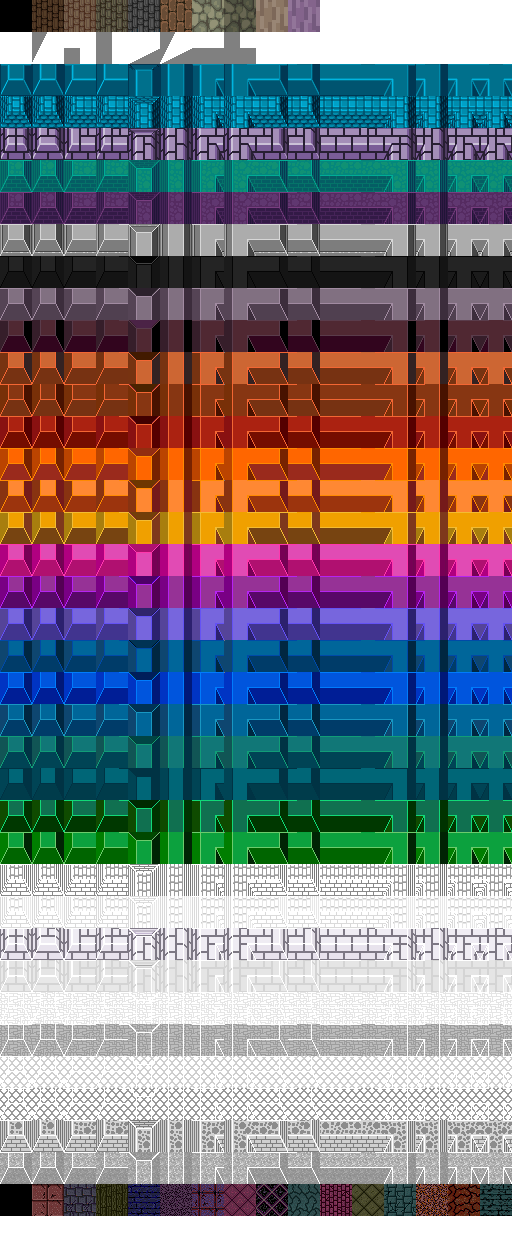
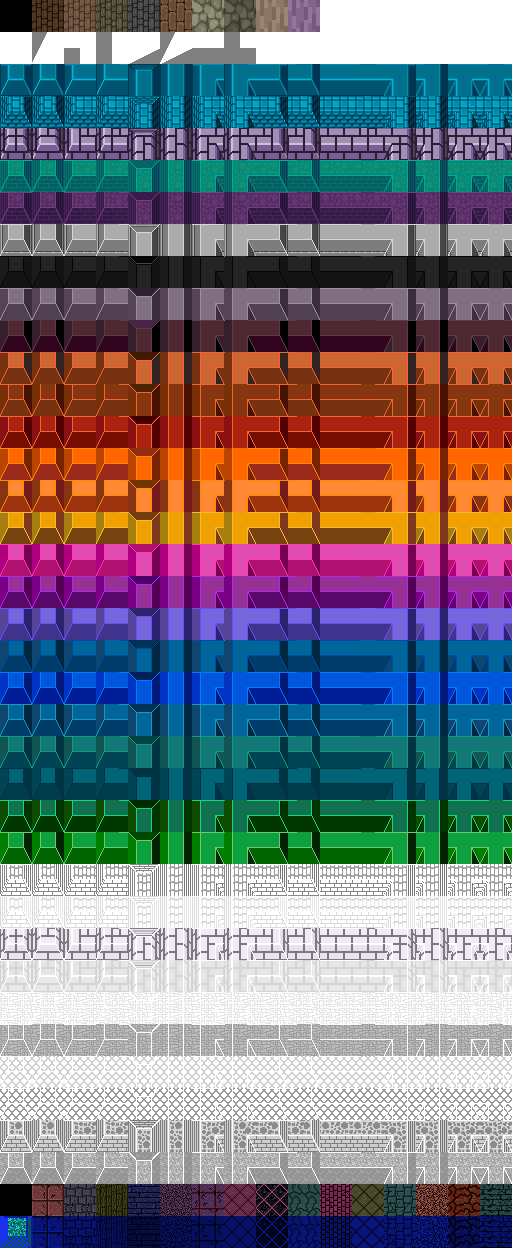
shotwall ops, ref for powers & limiteds

Changed region(s): [[0.0, 0.9688, 1.0, 1.0]]

diff --git a/js/gauntlet.js b/js/gauntlet.js
@@ -26,14 +26,16 @@ Gauntlet = function() {
 // also doors / walls are stalled open from player health rot - which has none of these pointers loaded
 // and could not get exit instance to pass exit to 4, 8 passed into the level load code
 // if there is a non global var method of passing these class inheritance pointers around - I know it not
-		reloaded, Mastercell, Masterthmp, Musicth, Mastermap, wallsprite,
+		reloaded, Mastercell, Masterthmp, Musicth, Mastermap, wallsprites, entsprites,
 		levelplus, refpixel, shotpot, slowmonster = 1, announcepause = false,
 //	custom g1 tiler on 0x00000F code of floor tiles - save last tile & last cell
 // FCUSTILE is after brikover last wall cover in backgrounds.png
-		ftilestr, fcellstr, FCUSTILE = 37,
+		ftilestr, fcellstr, FCUSTILE = 37, FDESTWALL = 38,
 
 		 MEXHIGH = 0xFFFFF0,
 		 MEXLOW = 0x00000F,
+// uses exlow to select next item in set
+		POWERADD = 3,LIMITEDADD = 7,
 
 // g1 custom walls diff from main wall mapped on EXLOW
 			G1WALL = [	8, 9, 10, 11, 12, 13, 14, 15, 16, 17, 18, 19, 20, 21, 22, 23, 24, 25, 26	],
@@ -105,7 +107,8 @@ Gauntlet = function() {
 // extra power potions
         XSPEED:       { sx: 9, sy: 11, frames:1, speed: 1*FPS, fpf: FPS/4, powers: true, potion: true, canbeshot: 2,   sound: 'collectpotion', help: "You got extra speed", nohlp: 10  },
         LIMINVIS:       { sx: 15, sy: 11, frames:1, speed: 1*FPS, fpf: FPS/4, powers: true,   sound: 'collectpotion', help: "You now have limited invisibility", nohlp: 17  },
-        SHOTWALL:       { sx: 0, sy: 12, frames:1, speed: 1*FPS, fpf: FPS/4, canbeshot: 2, health:14, wall:true,   sound: 'collectpotion' , help: "Some walls may be destroyed", nohlp: 7 },
+        SHOTWALL:       { sx: 0, sy: 38, frames:1, speed: 1*FPS, fpf: FPS/4, canbeshot: 2, health:14, wall:true,   sound: 'collectpotion' , help: "Some walls may be destroyed", nohlp: 7 },
+        FAKER:       { sx: 0, sy: 39, frames:1, speed: 1*FPS, fpf: FPS/4, canbeshot: 2, health:14, wall:true,   sound: 'collectpotion' , help: "Fooled you!", nohlp: 29 },
         XSHOTPWR:       { sx: 10, sy: 11, frames:1, speed: 1*FPS, fpf: FPS/4, powers: true, potion: true, canbeshot: 2,   sound: 'collectpotion', help: "You got extra shot power", nohlp: 11  },
         XSHOTSPD:       { sx: 11, sy: 11, frames:1, speed: 1*FPS, fpf: FPS/4, powers: true, potion: true, canbeshot: 2,   sound: 'collectpotion', help: "You got extra shot speed", nohlp: 12  },
         XARMOR:       { sx: 12, sy: 11, frames:1, speed: 1*FPS, fpf: FPS/4, powers: true, potion: true, canbeshot: 2,   sound: 'collectpotion', help: "You got extra armor", nohlp: 13  },
@@ -153,7 +156,7 @@ Gauntlet = function() {
       MONSTERS  = [ MONSTER.GHOST, MONSTER.DEMON, MONSTER.GRUNT, MONSTER.WIZARD, MONSTER.DEATH, MONSTER.LOBBER, MONSTER.GHOST1, MONSTER.DEMON1, MONSTER.GRUNT1, MONSTER.WIZARD1, MONSTER.LOBBER1, MONSTER.GHOST2, MONSTER.DEMON2, MONSTER.GRUNT2, MONSTER.WIZARD2, MONSTER.LOBBER2 ],
       TREASURES = [ TREASURE.HEALTH, TREASURE.POISON, TREASURE.FOOD1, TREASURE.FOOD2, TREASURE.FOOD3, TREASURE.KEY, TREASURE.POTION, TREASURE.GOLD, 
 											TREASURE.LOCKED, TREASURE.BAG, TREASURE.TELEPORT, TREASURE.TRAP, TREASURE.STUN, TREASURE.PUSH,
-											TREASURE.XSPEED, TREASURE.LIMINVIS, TREASURE.SHOTWALL, TREASURE.XSHOTPWR, TREASURE.XSHOTSPD, TREASURE.XARMOR, TREASURE.XFIGHT, TREASURE.XMAGIC,
+											TREASURE.XSPEED, TREASURE.LIMINVIS, TREASURE.SHOTWALL, TREASURE.FAKER, TREASURE.XSHOTPWR, TREASURE.XSHOTSPD, TREASURE.XARMOR, TREASURE.XFIGHT, TREASURE.XMAGIC,
 											TREASURE.LIMINVUL, TREASURE.LIMREPUL, TREASURE.LIMREFLC, TREASURE.LIMSUPER, TREASURE.LIMTELE, TREASURE.LIMANK,
 											TREASURE.POTIONORG, TREASURE.BADBOT ],
       CBOX = {
@@ -1271,9 +1274,10 @@ var ymir = false, xmir = false;
 				 var sb = MEXLOW & pixel;
 				 if (ad == TREASURE.POTION && (sb == 1)) ad = TREASURE.POTIONORG;
 				 if (ad == TREASURE.POISON && (sb == 2)) ad = TREASURE.BADPOT;
-				 if (ad == TREASURE.XSPEED && (sb > 0)) ad =  TREASURES[type(pixel) + sb + 2];
-				 if (ad == TREASURE.LIMINVIS && (sb > 0)) ad =  TREASURES[type(pixel) + sb + 6];
+				 if (ad == TREASURE.XSPEED && (sb > 0)) ad =  TREASURES[type(pixel) + sb + POWERADD];
+				 if (ad == TREASURE.LIMINVIS && (sb > 0)) ad =  TREASURES[type(pixel) + sb + LIMITEDADD];
 				self.addTreasure(x, y, ad);
+				 if (ad == TREASURE.SHOTWALL) Mastercell.ptr.sx = pixel & MEXLOW;
 			 }
 		  else if (ismonster(pixel))
 			 self.addMonster(x, y, MONSTERS[type(pixel) < MONSTERS.length ? type(pixel) : 0]);
@@ -2467,6 +2471,7 @@ var ymir = false, xmir = false;
 
     maptiles: function(map, ctx) {
       var n, cell, tx, ty, tw, th, sprites = this.sprites.backgrounds;
+		 if (wallsprites == undefined) wallsprites = sprites;
 		if (map.level.gflr)
 		 {
 			var gimg = document.getElementById("gfloor");
@@ -2563,7 +2568,9 @@ var ymir = false, xmir = false;
             border  = 0,
             maxglow = FX.PLAYER_GLOW.border;
 
-        if (exiting > 0.5) // player is 'gone' once halfway through exit
+		 if (entsprites == undefined) entsprites = sprites;
+
+			if (exiting > 0.5) // player is 'gone' once halfway through exit
           return;
 
         if (hurt || heal) {
@@ -2591,7 +2598,9 @@ var ymir = false, xmir = false;
         entity = entities[n];
         if (entity.active && (!entity.onrender || entity.onrender(frame) !== false) && !viewport.outside(entity.x, entity.y, TILE, TILE)) {
 // note: RUNORG
-				if (entity.door)
+				if (entity.type.wall)
+						this.sprite(ctx, wallsprites, viewport, entity.sx + (entity.frame || 0), entity.type.sy, entity.x + (entity.dx || 0), entity.y + (entity.dy || 0), TILE + (entity.dw || 0), TILE + (entity.dh || 0));
+				else if (entity.door)
 						this.sprite(ctx, sprites, viewport, entity.sx + (entity.frame || 0), entity.type.sy, entity.x + (entity.dx || 0), entity.y + (entity.dy || 0), TILE + (entity.dw || 0), TILE + (entity.dh || 0));
 				else
 						this.sprite(ctx, sprites, viewport, entity.type.sx + (entity.frame || 0), entity.type.sy, entity.x + (entity.dx || 0), entity.y + (entity.dy || 0), TILE + (entity.dw || 0), TILE + (entity.dh || 0));
